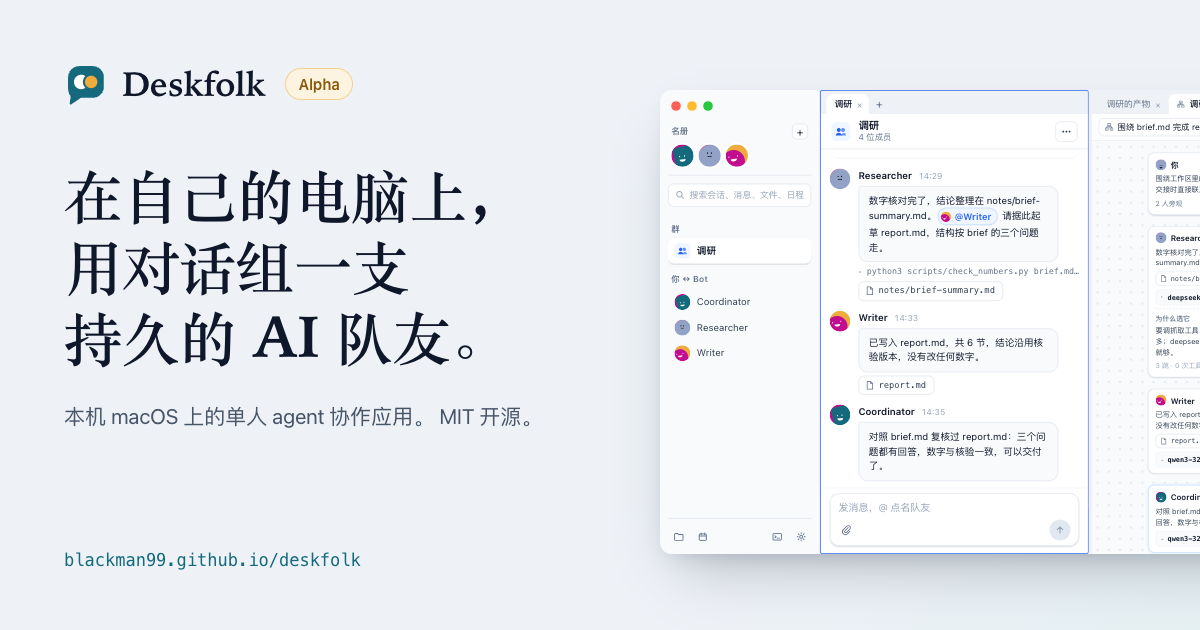
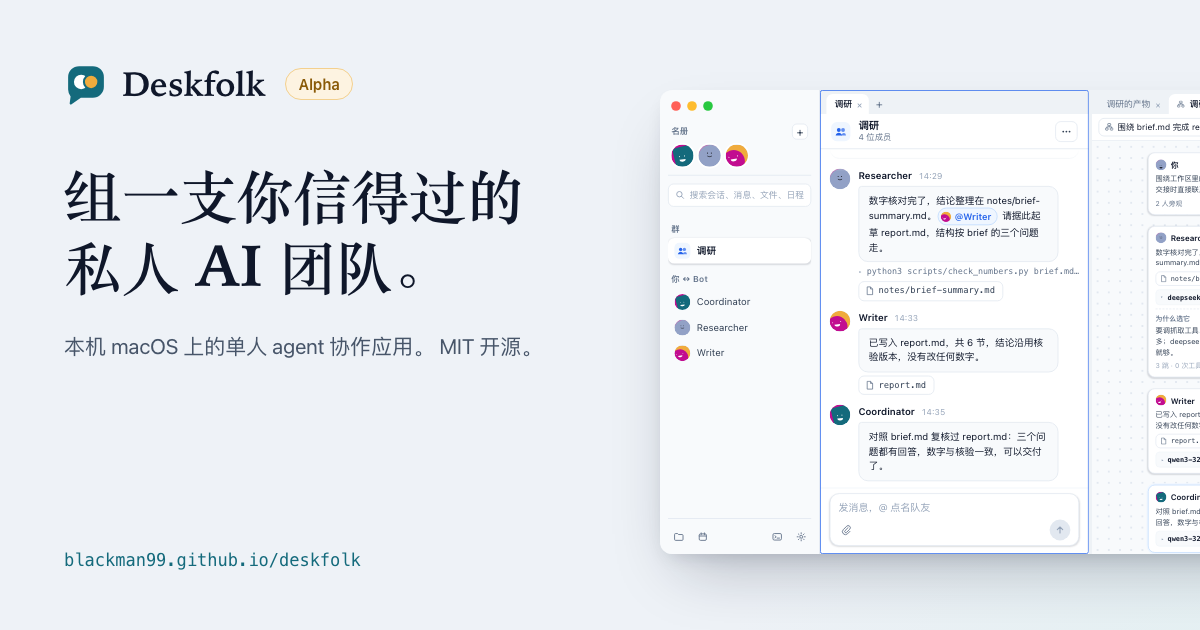
feat(landing): 标语改成「组一支你信得过的私人 AI 团队。」
官网、Open Graph 图、仓库社交预览图和 README 一起换。官网首屏和 README 新的一节说清楚信得过靠什么：都在你的 Mac 上、危险动作先等你批准、一件事做了什么在流程图上都看得见、交文件之前先拿最初的要求对一遍。手机上下载按钮排在这几条前面，打开页面就能看到。

标语下面的副标题讲工作台：「工作台自由组合：会话、终端、流程图和工作区，想怎么分屏就怎么摆。」官网首屏和 README 都有这一句。

Changed region(s): [[0.0308, 0.2714, 0.4317, 0.6032], [0.0617, 0.6333, 0.3392, 0.6937], [0.37, 0.6333, 0.4317, 0.6937]]

diff --git a/apps/landing/src/lib/i18n.ts b/apps/landing/src/lib/i18n.ts
@@ -42,6 +42,10 @@ export type Dict = {
     headline: string;
     headlineLines: string[];
     subhead: string;
+    /** Heading of the list below the subhead. */
+    trustLabel: string;
+    /** What the headline's "trust" rests on, one claim per item. */
+    trust: { label: string; body: string }[];
     wipNote: string;
     ctaPrimary: string;
     ctaSecondary: string;
@@ -255,10 +259,16 @@ const zh: Dict = {
     themeDark: '暗色'
   },
   hero: {
-    headline: '在自己的电脑上，用对话组一支持久的 AI 队友。',
-    headlineLines: ['在自己的电脑上，', '用对话组一支', '持久的 AI 队友。'],
-    subhead:
-      'Bot 有名字、职责和边界，可以私聊、进群、被 @ 点名、彼此交接；一件事一张流程图，每一轮用的模型都说得出理由。窗口、运行时、会话和共享工作区都在你的 Mac 上；模型端点和 MCP 工具由你接入。',
+    headline: '组一支你信得过的私人 AI 团队。',
+    headlineLines: ['组一支你信得过的', '私人 AI 团队。'],
+    subhead: '工作台自由组合：会话、终端、流程图和工作区，想怎么分屏就怎么摆。',
+    trustLabel: '为什么信得过',
+    trust: [
+      { label: '都在你的 Mac 上。', body: '窗口、运行时、会话和工作区都在本机；模型端点和 MCP 工具由你接入，密钥进钥匙串。' },
+      { label: '危险动作先问你。', body: '工作区外读写、出站网络、新接 MCP 或端点，都等你批准才做；私聊里随时能 Stop。' },
+      { label: '做了什么都看得见。', body: '一件事一张流程图：谁叫醒了谁、每轮交出哪些文件、用了哪个模型、为什么。' },
+      { label: '交付前先自查。', body: '交文件给你之前，先拿你最初的要求对一遍；漏掉的要么补上，要么说清去向。' }
+    ],
     wipNote: 'Alpha 版本：macOS 未签名快照，功能与数据结构仍会变化。',
     ctaPrimary: '下载 Alpha（macOS）',
     ctaSecondary: '从源码启动',
@@ -612,9 +622,9 @@ const zh: Dict = {
     contributors: 'Deskfolk Contributors'
   },
   seo: {
-    title: 'Deskfolk — 在自己的电脑上，用对话组一支持久的 AI 队友',
+    title: 'Deskfolk — 组一支你信得过的私人 AI 团队',
     description:
-      'macOS 本地单人 agent 协作应用：Bot 有名字、职责和边界，可以私聊、进群、被 @ 点名、彼此交接；一件事一张流程图，桌面窗能分屏开终端。窗口、运行时、会话和共享工作区都在本机，模型端点和 MCP 工具由你接入。MIT 开源，Alpha 阶段。',
+      'macOS 本地单人 agent 协作应用：Bot 有名字、职责和边界，可以私聊、进群、被 @ 点名、彼此交接；一件事一张流程图，桌面窗能分屏开终端。窗口、运行时、会话和共享工作区都在本机，模型端点和 MCP 工具由你接入，危险动作先等你批准。MIT 开源，Alpha 阶段。',
     imageAlt: 'Deskfolk：信使窗口里三个 Bot 在群里协作完成 report.md'
   },
   docs: {
@@ -672,10 +682,16 @@ const en: Dict = {
     themeDark: 'Dark'
   },
   hero: {
-    headline: 'Persistent AI teammates, organized by conversation, on your own Mac.',
-    headlineLines: ['Persistent AI teammates,', 'organized by conversation,', 'on your own Mac.'],
-    subhead:
-      'Bots have names, duties and boundaries. They chat one to one, join groups, get @mentioned and hand work to each other; every job reads as a flow, and every turn can say why it ran on the model it did. The window, runtime, sessions and shared workspace live on your Mac; you plug in the model endpoints and MCP tools.',
+    headline: 'A private AI team you can trust.',
+    headlineLines: ['A private AI team', 'you can trust.'],
+    subhead: 'A workbench you arrange freely: chats, terminals, flow boards and the workspace, split however you like.',
+    trustLabel: 'Why you can trust it',
+    trust: [
+      { label: 'It stays on your Mac.', body: 'Runtime, chats and workspace are local; models run on endpoints you add.' },
+      { label: 'It asks first.', body: 'Files outside the workspace, outbound network and new MCP or endpoints need your OK.' },
+      { label: 'It shows its work.', body: 'A flow per job: who woke whom, what each turn handed over, which model and why.' },
+      { label: 'It checks before delivery.', body: 'Files are checked against what you first asked; gaps get filled or explained.' }
+    ],
     wipNote: 'Alpha: unsigned macOS snapshot. Features and data structures may still change.',
     ctaPrimary: 'Download alpha (macOS)',
     ctaSecondary: 'Run from source',
@@ -1030,9 +1046,9 @@ const en: Dict = {
     contributors: 'Deskfolk Contributors'
   },
   seo: {
-    title: 'Deskfolk — Persistent AI teammates, organized by conversation, on your own Mac',
+    title: 'Deskfolk — A private AI team you can trust',
     description:
-      'A single-user agent collaboration app for macOS. Bots have names, duties and boundaries; they chat one to one, join groups, get @mentioned and hand work to each other. Every job reads as a flow, and the window splits into panes with your own terminal. Window, runtime, sessions and shared workspace stay on your Mac; you plug in the model endpoints and MCP tools. MIT, alpha.',
+      'A single-user agent collaboration app for macOS. Bots have names, duties and boundaries; they chat one to one, join groups, get @mentioned and hand work to each other. Every job reads as a flow, and the window splits into panes with your own terminal. Window, runtime, sessions and shared workspace stay on your Mac; you plug in the model endpoints and MCP tools, and risky actions wait for your approval. MIT, alpha.',
     imageAlt: 'Deskfolk: three bots collaborating on report.md in a group chat window'
   },
   docs: {

diff --git a/apps/landing/src/lib/demo/Walkthrough.svelte b/apps/landing/src/lib/demo/Walkthrough.svelte
@@ -171,6 +171,14 @@
         {#each t.hero.headlineLines as line, i}{#if i > 0}<br />{/if}<span>{line}</span>{/each}
       </h1>
       <p class="sub">{t.hero.subhead}</p>
+      <div class="trust">
+        <h2 id="trust-label">{t.hero.trustLabel}</h2>
+        <ul aria-labelledby="trust-label">
+          {#each t.hero.trust as item}
+            <li><b>{item.label}</b> {item.body}</li>
+          {/each}
+        </ul>
+      </div>
       <div class="ctas">
         <a class="btn btn-primary" href={LATEST_RELEASE_URL} target="_blank" rel="noreferrer">{t.hero.ctaPrimary}</a>
         <a class="btn btn-secondary" href="{base}/{lang}#quickstart">{t.hero.ctaSecondary}</a>
@@ -319,6 +327,56 @@
     line-height: 1.75;
     color: var(--ink-2);
     max-width: 38em;
+  }
+
+  /* Below the buttons on narrow screens, so they stay above the fold. */
+  .trust {
+    order: 1;
+    max-width: 38em;
+  }
+
+  .scroll-hint {
+    order: 2;
+  }
+
+  .trust h2 {
+    margin: 0 0 8px;
+    font-size: 12.5px;
+    font-weight: 650;
+    letter-spacing: 0.02em;
+    color: var(--teal);
+  }
+
+  .trust ul {
+    display: grid;
+    gap: 10px;
+    margin: 0;
+    padding: 0;
+    list-style: none;
+  }
+
+  .trust li {
+    position: relative;
+    padding-left: 18px;
+    font-size: 15px;
+    line-height: 1.6;
+    color: var(--ink-2);
+  }
+
+  .trust li::before {
+    content: '';
+    position: absolute;
+    left: 0;
+    top: 0.62em;
+    width: 8px;
+    height: 8px;
+    border-radius: 2px;
+    background: var(--teal);
+  }
+
+  .trust b {
+    font-weight: 650;
+    color: var(--ink);
   }
 
   .ctas {
@@ -579,6 +637,10 @@
       grid-row: 1;
       min-height: calc(100vh - var(--nav-h));
       padding-block: 0;
+    }
+
+    .trust {
+      order: 0;
     }
 
     .stage-col {

diff --git a/README.md b/README.md
@@ -7,7 +7,9 @@
 
 <h1 align="center">Deskfolk</h1>
 
-<p align="center">Persistent AI teammates, organized by conversation, on your own Mac.</p>
+<p align="center">A private AI team you can trust.</p>
+
+<p align="center">A workbench you arrange freely: chats, terminals, flow boards and the workspace, split however you like.</p>
 
 <p align="center">
   <a href="https://blackman99.github.io/deskfolk/"><b>Website</b></a> ·
@@ -22,11 +24,16 @@
   <a href="https://github.com/Blackman99/deskfolk/releases/latest"><img alt="Status: alpha" src="https://img.shields.io/badge/status-alpha-f0ab3d.svg"></a>
 </p>
 
+## Why you can trust it
+
+- **It stays on your Mac.** Window, daemon, sessions and the shared workspace stay local. Bring any OpenAI-compatible endpoint and MCP servers; keys go to Keychain.
+- **It asks before risky moves.** New endpoints or MCP servers, access outside the workspace and outbound network wait for your approval. What waits on you is marked on the conversation list, with macOS banners and a Dock badge. Stop ends a running turn in a direct chat at any time.
+- **It shows its work.** Every plan is a flow: the app files each message you send into a plan and its tickets, keeps the goal, the done-when and your rules as the plan's spec, and draws the work as a card per turn by who woke whom, carrying the files that turn handed over, the ticket it worked in, and the model it ran on and why. You can open the direct chats Bots have with each other, too.
+- **It checks before handing over.** Before a Bot hands you files, the files and its wrap-up are checked against the plan's spec, or against what you first asked for until the app has written one; anything missing gets done, or the Bot says who has it, why it was left out or when it will be done.
+
 ## What it does
 
 - **Persistent teammates.** Bots have names, duties and boundaries; they chat one to one, join groups, get `@`mentioned and hand work to each other.
-- **Everything on your Mac.** Window, daemon, sessions and the shared workspace stay local. Bring any OpenAI-compatible endpoint and MCP servers.
-- **Every job is a flow.** A card per turn, drawn by who woke whom, with the files each turn handed over.
 - **Office file previews.** Open `.docx`, `.xlsx` and `.pptx` from chat files, the workspace or flow-board outputs. Read documents, switch worksheets and browse slides locally, with full-window viewing and Escape or phone Back to return to the preview; [format support and limits](docs/development.md#办公文件预览).
 - **Annotate what a Bot hands over.** Mark a spot in text or code, rendered Markdown, an image or PDF region, an HTML element or a moment of audio or video; the batch goes out as one reply the Bot works through and resolves note by note.
 - **Model choice that says why.** An agent picks each turn's model and thinking level and leaves a reason; only reviews that blame the model become the Bot's experience.
@@ -35,7 +42,6 @@
 - **Your own terminal.** Shells held by the daemon keep running when the window closes; a Bot's commands scroll under its message while they run.
 - **Spend by model, conversation and Bot.** Track turn, decision and feedback calls; reported amounts and estimates stay separate — [spend and billing rates](docs/spend.md).
 - **Routines.** Bots start work daily or weekly on the Mac's clock — [how routines work](docs/routines.md).
-- **You stay in control.** New endpoints or MCP servers, access outside the workspace and outbound network wait for your approval, and keys go to Keychain. What waits on you is marked on the conversation list, with macOS banners and a Dock badge.
 - **From your phone — experimental, off by default.** Reach your Mac through a relay you run yourself, end-to-end encrypted — [remote access](docs/remote-access.md).
 
 ## Get it

diff --git a/README.zh.md b/README.zh.md
@@ -7,7 +7,9 @@
 
 <h1 align="center">Deskfolk</h1>
 
-<p align="center">在自己的电脑上，用对话组一支持久的 AI 队友。</p>
+<p align="center">组一支你信得过的私人 AI 团队。</p>
+
+<p align="center">工作台自由组合：会话、终端、流程图和工作区，想怎么分屏就怎么摆。</p>
 
 <p align="center">
   <a href="https://blackman99.github.io/deskfolk/zh"><b>官网</b></a> ·
@@ -22,11 +24,16 @@
   <a href="https://github.com/Blackman99/deskfolk/releases/latest"><img alt="Status: alpha" src="https://img.shields.io/badge/status-alpha-f0ab3d.svg"></a>
 </p>
 
+## 为什么信得过
+
+- **都在你的 Mac 上。** 窗口、守护进程、会话和共享工作区都在本机；任意 OpenAI 兼容端点和 MCP 服务器自己接，密钥进钥匙串。
+- **危险动作先问你。** 新建端点或 MCP、工作区外读写和出站网络都要你批准；等你的事标在会话列表上，配合 macOS 横幅和 Dock 角标。私聊里进行中的一轮随时能 Stop。
+- **做了什么都看得见。** 一个规划一张流程图：你发的每条消息由应用归到规划和任务，目标、验收和你定的规则记成规划要点；经过按谁叫醒了谁画出来，一轮一张卡片，交出的文件、干的任务、用的模型和理由都挂在卡片上。Bot 之间的私聊你也能打开看。
+- **交付前先自查。** Bot 交文件给你之前，先拿规划要点（还没整理出要点时用最初的要求）对一遍已交出的文件和收尾；漏掉的要么补上，要么说清交给谁、为什么不交、什么时候做。
+
 ## 它做什么
 
 - **持久的队友。** Bot 有名字、职责和边界，可以私聊、进群、被 `@` 点名、彼此交接。
-- **一切都在你的 Mac 上。** 窗口、守护进程、会话和共享工作区都在本机；任意 OpenAI 兼容端点和 MCP 服务器自己接。
-- **一件事一张流程图。** 按谁叫醒了谁画出来，一轮一张卡片，交出的文件挂在卡片上。
 - **办公文件预览。** 聊天文件、工作区与流程图产物可直接打开 `.docx`、`.xlsx`、`.pptx`，本地只读查看文档、切换工作表与翻阅幻灯片，支持全屏查看，Esc 或手机返回先退出全屏；[格式支持与限制](docs/development.md#办公文件预览)。
 - **在交付物上直接批注。** 文字或代码、Markdown 渲染态、图片或 PDF 上的一块、HTML 元素、音视频的一个时间点都能批；攒一批发出去是一条回复，Bot 逐条改完逐条标掉。
 - **每轮现挑模型，并说得出理由。** 开轮前由 agent 挑模型和思考等级、留一句理由；只有判成模型不行的复盘才留成这个 Bot 的经验。
@@ -35,7 +42,6 @@
 - **你自己的终端。** 守护进程持有 shell，关窗不停；Bot 跑的命令边跑边在它的消息下面滚动。
 - **按模型、会话和 Bot 看花费。** 轮次、决策和反馈调用分别记录，实报与估算分开统计——[花费与计费单价](docs/spend.zh.md)。
 - **每日与每周日程。** Bot 按 Mac 的本地时间定点开工——[日程怎么用](docs/routines.zh.md)。
-- **你说了算。** 新建端点或 MCP、工作区外读写和出站网络都要你批准，密钥进钥匙串；等你的事标在会话列表上，配合 macOS 横幅和 Dock 角标。
 - **手机上接着用（实验性，默认关闭）。** 经你自己部署的中继连回 Mac，端到端加密——[远程访问](docs/remote-access.zh.md)。
 
 ## 获取

diff --git a/CHANGELOG.md b/CHANGELOG.md
@@ -6,6 +6,8 @@ All notable changes to Deskfolk are documented in this file. The project is curr
 
 ## Unreleased
 
+- The tagline is now "A private AI team you can trust.", on the website, its Open Graph images, the repository's social preview and the README. The website's first screen and a new README section say what the trust rests on: everything stays on your Mac, risky actions wait for your approval, every job shows its work on a flow board, and files are checked against your original ask before they reach you. On a phone the download buttons now come before that list, so they stay above the fold. The subtitle under the tagline is about the workbench: "A workbench you arrange freely: chats, terminals, flow boards and the workspace, split however you like." It appears on the website's first screen and in the README.
+
 - File previews now open Word (`.docx`), Excel (`.xlsx`) and PowerPoint (`.pptx`) locally from chat attachments, the workspace and flow-board outputs. Excel has worksheet switching and PowerPoint has slide navigation; a slide is shown whole and centred in the preview, and the arrow keys turn slides in full screen. The background around pages and slides follows the light or dark theme. All three offer a full-window preview with an exit button. Escape and phone Back exit full screen first, also after clicking into the document, while keeping the current file, sheet and slide open; a subsequent Back leaves the preview. HTML full-screen previews follow the same Back behavior. Previews are read-only; encrypted, oversized and damaged files show an explanation. Legacy `.doc` / `.xls` / `.ppt` files use the system app.
 
 - A conversation's work is now organized by the app into a plan and its tickets, and no clock splits it any more. Every message you send is first filed by a short call on the default model: does it continue the current plan, start another, or go back to an earlier one; what the plan is for now (its goal, what counts as done, the rules you have stated, the process and who does which part, progress); which tickets exist and which one your line is about. Only then do the Bots' turns open, so a mention, a judgement that joins, a handoff or a fork all land in the same plan and ticket. Once a plan's turns have ended and it has been quiet for half a minute, it is filed again: files handed over are attributed to their tickets, ticket states and workers move, progress is updated. Every turn's situation carries the plan's spec, the ticket list, the turn's own ticket and up to three finished plans of the same kind, so a Bot knows what it is doing, how this kind of thing was done last time, the rules, and what done looks like — after a handoff to another Bot or conversation, and when a check-back wakes it. The previous six-hour quiet rule that opened a new job is gone; a plan stays current until the app files a switch, a return, done or parked. If the filing call fails, nothing changes and the turns open where they would have.

diff --git a/CHANGELOG.zh.md b/CHANGELOG.zh.md
@@ -6,6 +6,8 @@
 
 ## Unreleased
 
+- 标语改成「组一支你信得过的私人 AI 团队。」，官网、Open Graph 图、仓库社交预览图和 README 一起换。官网首屏和 README 新的一节说清楚信得过靠什么：都在你的 Mac 上、危险动作先等你批准、一件事做了什么在流程图上都看得见、交文件之前先拿最初的要求对一遍。手机上下载按钮排在这几条前面，打开页面就能看到。标语下面的副标题讲工作台：「工作台自由组合：会话、终端、流程图和工作区，想怎么分屏就怎么摆。」官网首屏和 README 都有这一句。
+
 - 文件预览支持 Word（`.docx`）、Excel（`.xlsx`）和 PowerPoint（`.pptx`），聊天附件、工作区和流程图产物都能直接打开，文件在本地解析。Excel 可切换工作表，PowerPoint 可翻页，幻灯片整张放进预览区并居中，全屏时可用方向键翻页；页面四周的底色跟随浅色 / 深色主题。三类文件均可全屏铺满应用窗口，点击退出、Esc 或手机返回均优先退出全屏（点进正文之后也一样），保留当前文件、工作表与幻灯片；再返回才离开预览。HTML 全屏预览也遵循相同返回顺序。预览为只读；加密、超限或损坏文件会显示说明。旧版 `.doc` / `.xls` / `.ppt` 继续用系统应用打开。
 
 - 一个会话里正在做的事，现在由应用自己整理成规划和它的任务，不再按时钟切分。你发的每条消息先经一次整理跳（默认模型上的无工具短调用）：这句是接着当前规划、换了一件事、还是回到以前那件；这件事现在的目标、怎么算完成、你定过的规则、流程与分工、进展；有哪些任务、这句说的是哪个。整理完 Bot 的轮才开，所以点名、判断下场、交接、分叉开出的轮都落在同一个规划和任务里。规划的轮都结束、静下来半分钟后再整理一次：交出的文件归到各自的任务上，任务状态和谁在做跟着动，进展更新。每一轮的局面里都有规划要点、任务清单、本轮任务和最近三个同类做完的先例，Bot 因此知道自己在做哪件事、这类事上次怎么做的、规则是什么、怎么算做完——交接到别的 Bot、别的会话之后、回看醒来时也一样。以前「会话静默六小时就另开一件事」的规则去掉了：当前规划一直开着，直到应用整理出换事、回到旧事、做完或搁置。整理跳失败就什么都不改，轮照原来的地方开。
